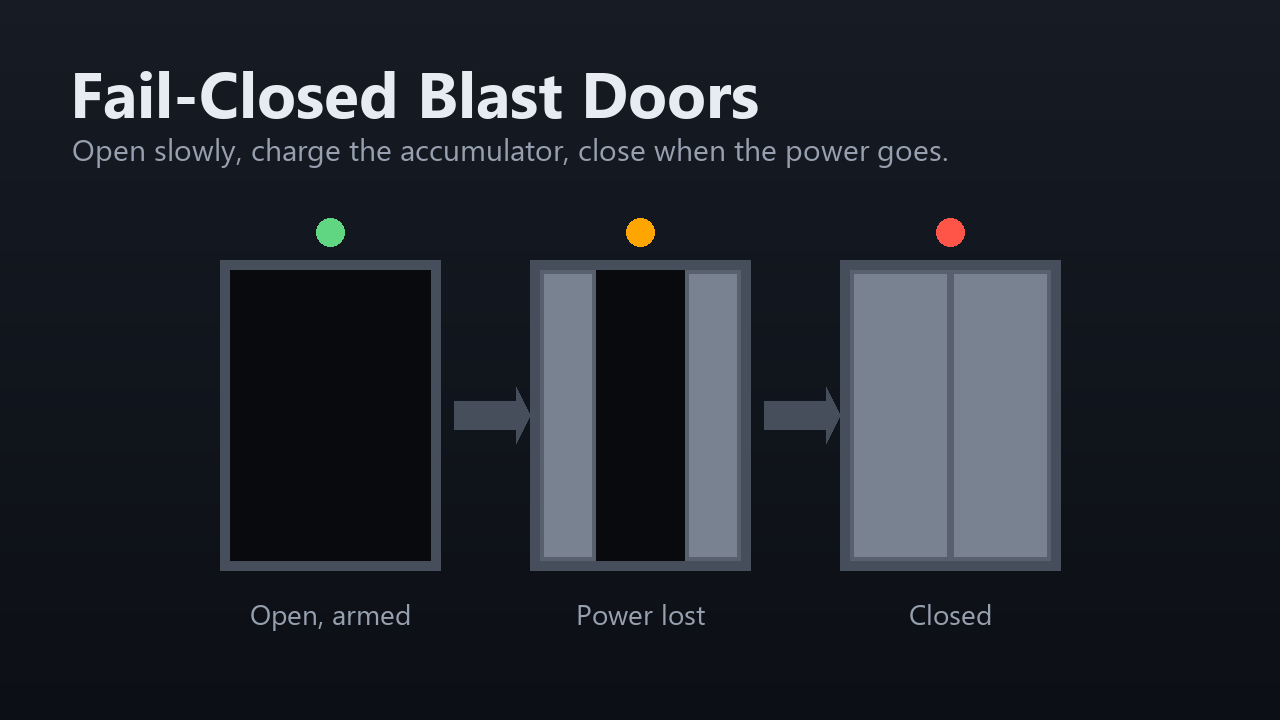
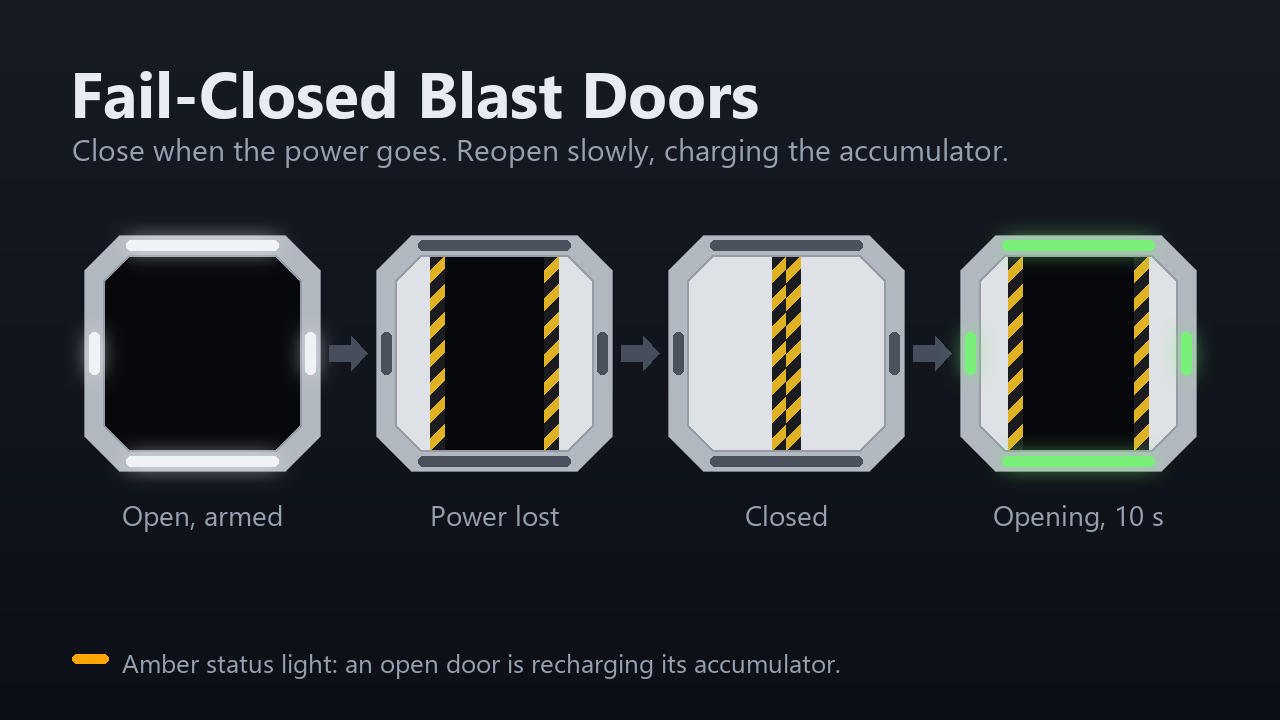
Release 1.0.0; redraw the Workshop images
Bump the version to 1.0.0 with a changelog entry. Redraw the preview and thumbnail after the
game's own blast door: an octagonal opening, hazard-striped leaf edges, and rounded status
light bars in the colours the game shows (white idle, green moving, off without power),
ordered so the close on power loss comes first and the slow opening after it.

AGENTS.md records what has been checked in game: the blast door has no error state, its
vanilla open and close take 1 second, and a dedicated-server client sees the same behaviour.

Assisted-by: Claude:claude-sonnet-5-5

diff --git a/tools/make_images.py b/tools/make_images.py
@@ -4,27 +4,39 @@ LaunchPad needs both to register the mod. Run from the repo root:
 
     python tools/make_images.py
 
-Needs Pillow. The picture is a blast door in three positions: open and armed, losing power,
-and closed.
+Needs Pillow. The picture is a blast door in four states: open and armed, losing power,
+closed, then opening again under power. The door follows the game's model: an octagonal
+opening in a light frame, two leaves with hazard-striped inner edges, and rounded status
+light bars set into the frame (long at the top and bottom, short at the sides).
 """
 
 from pathlib import Path
 
-from PIL import Image, ImageDraw, ImageFont
+from PIL import Image, ImageChops, ImageDraw, ImageFilter, ImageFont
 
 ROOT = Path(__file__).resolve().parent.parent
 FONT_DIRS = [Path("C:/Windows/Fonts"), Path("/usr/share/fonts/truetype/dejavu")]
 
 BG_TOP = (22, 27, 36)
 BG_BOTTOM = (12, 15, 21)
-FRAME = (70, 78, 92)
-DOOR = (120, 130, 145)
-DOOR_DARK = (88, 96, 110)
-AMBER = (255, 165, 0)
-RED = (255, 84, 72)
-GREEN = (96, 214, 130)
+FRAME = (178, 184, 192)
+FRAME_EDGE = (120, 126, 136)
+OPENING = (6, 8, 12)
+LEAF = (222, 225, 229)
+LEAF_EDGE = (150, 156, 166)
+HAZARD_YELLOW = (222, 178, 36)
+HAZARD_BLACK = (28, 28, 32)
+ARROW = (70, 78, 92)
 TEXT = (232, 236, 242)
 MUTED = (150, 160, 175)
+
+# The status light colours the game shows: green while the door moves, white when idle and
+# powered, off without power, and amber (this mod's default RechargeColor) while the
+# accumulator recharges.
+MOVING_GREEN = (120, 240, 120)
+IDLE_WHITE = (240, 242, 246)
+LIGHT_OFF = (74, 80, 92)
+AMBER = (255, 165, 0)
 
 
 def font(size, bold=False):
@@ -51,53 +63,115 @@ def gradient(w, h):
     return img
 
 
-def draw_door(d, x, y, w, h, open_fraction, light):
-    """A doorway with two leaves that part by open_fraction (0 closed, 1 open)."""
-    d.rectangle([x - 10, y - 10, x + w + 10, y + h + 10], fill=FRAME)
-    d.rectangle([x, y, x + w, y + h], fill=(8, 10, 14))
-    gap = round(w / 2 * open_fraction)
-    leaf = w // 2 - gap
-    if leaf > 0:
-        d.rectangle([x, y, x + leaf, y + h], fill=DOOR, outline=DOOR_DARK, width=4)
-        d.rectangle([x + w - leaf, y, x + w, y + h], fill=DOOR, outline=DOOR_DARK, width=4)
-    r = max(6, w // 14)
+def octagon(x0, y0, x1, y1, c):
+    return [(x0 + c, y0), (x1 - c, y0), (x1, y0 + c), (x1, y1 - c),
+            (x1 - c, y1), (x0 + c, y1), (x0, y1 - c), (x0, y0 + c)]
+
+
+def draw_door(img, x, y, size, open_fraction, light):
+    """A square doorway whose leaves part by open_fraction (0 closed, 1 open)."""
+    w = h = size
+    m = round(w * 0.10)  # frame thickness
+    chamfer = round(w * 0.13)
+    d = ImageDraw.Draw(img)
+    d.polygon(octagon(x - m, y - m, x + w + m, y + h + m, chamfer + m // 2),
+              fill=FRAME, outline=FRAME_EDGE)
+    opening = octagon(x, y, x + w, y + h, chamfer)
+    d.polygon(opening, fill=OPENING)
+
+    # The leaves are drawn on their own layer and clipped to the opening.
+    layer = Image.new("RGBA", img.size, (0, 0, 0, 0))
+    ld = ImageDraw.Draw(layer)
     cx = x + w // 2
-    d.ellipse([cx - r, y - 38 - r, cx + r, y - 38 + r], fill=light)
+    band = max(6, round(w * 0.07))  # the hazard-striped edge of each leaf
+    # Fully open, each leaf and its band are clear of the opening.
+    shift = round((w / 2 + band) * open_fraction)
+    left_edge, right_edge = cx - shift, cx + shift
+    ld.rectangle([x - w, y, left_edge - band, y + h], fill=LEAF)
+    ld.rectangle([right_edge + band, y, x + 2 * w, y + h], fill=LEAF)
+    for x0, x1 in ((left_edge - band, left_edge), (right_edge, right_edge + band)):
+        ld.rectangle([x0, y, x1, y + h], fill=HAZARD_YELLOW)
+        step = band * 2
+        for yy in range(y - step, y + h + step, step):
+            ld.polygon([(x0, yy), (x1, yy - band), (x1, yy - band + step // 2),
+                        (x0, yy + step // 2)], fill=HAZARD_BLACK)
+    mask = Image.new("L", img.size, 0)
+    ImageDraw.Draw(mask).polygon(opening, fill=255)
+    layer.putalpha(ImageChops.multiply(layer.getchannel("A"), mask))
+    img.paste(layer, (0, 0), layer)
+    ImageDraw.Draw(img).line(opening + [opening[0]], fill=LEAF_EDGE, width=2)
+
+    # The status lights: long bars top and bottom, short bars at the sides, set into the frame.
+    t = max(5, round(w * 0.05))
+    long_len, short_len = round(w * 0.78), round(h * 0.22)
+    cy = y + h // 2
+    bars = [
+        (cx - long_len // 2, y - m // 2 - t // 2, cx + long_len // 2, y - m // 2 + t // 2),
+        (cx - long_len // 2, y + h + m // 2 - t // 2, cx + long_len // 2, y + h + m // 2 + t // 2),
+        (x - m // 2 - t // 2, cy - short_len // 2, x - m // 2 + t // 2, cy + short_len // 2),
+        (x + w + m // 2 - t // 2, cy - short_len // 2, x + w + m // 2 + t // 2, cy + short_len // 2),
+    ]
+    if light != LIGHT_OFF:
+        # Blur the shape as a mask and paint the light colour through it, so the halo is the
+        # light's colour rather than a blend with transparent black.
+        halo = Image.new("L", img.size, 0)
+        hd = ImageDraw.Draw(halo)
+        for b in bars:
+            hd.rounded_rectangle(b, radius=t // 2, fill=200)
+        halo = halo.filter(ImageFilter.GaussianBlur(max(3, t)))
+        img.paste(Image.new("RGB", img.size, light), (0, 0), halo)
+    d = ImageDraw.Draw(img)
+    for b in bars:
+        d.rounded_rectangle(b, radius=t // 2, fill=light)
+    return m
 
 
 def render(width, height):
     img = gradient(width, height)
-    d = ImageDraw.Draw(img)
     scale = width / 1280
-    pw, ph = round(200 * scale), round(290 * scale)
-    gapx = round(110 * scale)
-    total = 3 * pw + 2 * gapx
+    size = round(196 * scale)
+    gapx = round(96 * scale)
+    total = 4 * size + 3 * gapx
     x0 = (width - total) // 2
-    y0 = round(270 * scale)
-    steps = [(1.0, GREEN, "Open, armed"), (0.45, AMBER, "Power lost"), (0.0, RED, "Closed")]
+    y0 = round(255 * scale)
+    # The point is the close on power loss; the slow, charging open comes after it.
+    steps = [(1.0, IDLE_WHITE, "Open, armed"), (0.45, LIGHT_OFF, "Power lost"),
+             (0.0, LIGHT_OFF, "Closed"), (0.5, MOVING_GREEN, "Opening, 10 s")]
     for i, (frac, colour, label) in enumerate(steps):
-        x = x0 + i * (pw + gapx)
-        draw_door(d, x, y0, pw, ph, frac, colour)
+        x = x0 + i * (size + gapx)
+        m = draw_door(img, x, y0, size, frac, colour)
+        d = ImageDraw.Draw(img)
         f = font(round(28 * scale))
         tw = d.textlength(label, font=f)
-        d.text((x + (pw - tw) / 2, y0 + ph + round(34 * scale)), label, font=f, fill=MUTED)
-        if i < 2:
-            ax = x + pw + round(24 * scale)
-            ay = y0 + ph // 2
+        d.text((x + (size - tw) / 2, y0 + size + m + round(24 * scale)), label, font=f, fill=MUTED)
+        if i < len(steps) - 1:
+            # Clear of both frames, which stand out a tenth of the door's width.
+            ax = x + size + m + round(9 * scale)
+            tip = x + size + gapx - m - round(9 * scale)
+            head = tip - round(16 * scale)
+            ay = y0 + size // 2
+            h1, h2 = round(8 * scale), round(17 * scale)
             d.polygon(
-                [(ax, ay - 14), (ax + gapx - round(48 * scale), ay - 14),
-                 (ax + gapx - round(48 * scale), ay - 28),
-                 (ax + gapx - round(34 * scale), ay),
-                 (ax + gapx - round(48 * scale), ay + 28),
-                 (ax + gapx - round(48 * scale), ay + 14), (ax, ay + 14)],
-                fill=FRAME,
+                [(ax, ay - h1), (head, ay - h1), (head, ay - h2), (tip, ay),
+                 (head, ay + h2), (head, ay + h1), (ax, ay + h1)],
+                fill=ARROW,
             )
+
+    d = ImageDraw.Draw(img)
     title = font(round(64 * scale), bold=True)
     sub = font(round(30 * scale))
     d.text((round(70 * scale), round(48 * scale)), "Fail-Closed Blast Doors", font=title, fill=TEXT)
     d.text((round(72 * scale), round(128 * scale)),
-           "Open slowly, charge the accumulator, close when the power goes.",
+           "Close when the power goes. Reopen slowly, charging the accumulator.",
            font=sub, fill=MUTED)
+    # The recharge colour is the one players will not have seen, so say what it means.
+    note = font(round(26 * scale))
+    r = round(9 * scale)
+    nx, ny = round(72 * scale), height - round(70 * scale)
+    d.rounded_rectangle([nx, ny + r // 2, nx + 4 * r, ny + r + r // 2], radius=r // 2, fill=AMBER)
+    d.text((nx + 4 * r + round(14 * scale), ny - round(6 * scale)),
+           "Amber status light: an open door is recharging its accumulator.",
+           font=note, fill=MUTED)
     return img
 
 

diff --git a/AGENTS.md b/AGENTS.md
@@ -62,11 +62,15 @@ Assisted-by: AGENT_NAME:MODEL_VERSION [TOOL1] [TOOL2]
   recharge and returns to 0 when the door starts to close; `Idle` stays 0 while it moves.
   An open door keeps its recharge state across a save and reload (through its stun), and the
   stun is not shown in any in-game label.
-- **Not verified in game yet.** What a client sees (the recharge colour and state from the
-  synced stun); the prefab's real `time`; whether the blast door has an error state
-  (`HasErrorState`), which decides whether `Error` comes from the game's setter or from our
-  logic patches; and what turns `Setting` into movement in the keypad's Logic mode, which
-  blast doors don't have.
+  A client of a dedicated server sees the same behaviour, including the recharge state from
+  the synced stun.
+- **The blast door has no error state.** `Prefab.Find("StructureBlastDoor").HasErrorState` is
+  false (checked in a debugger), so the game's `Thing.Error` setter does nothing on it and
+  `Error` is reported entirely by `ErrorCanReadPatch` and `ErrorGetValuePatch`.
+- **The vanilla open and close take 1 second** (`time` on the prefab's `DoorAnimComponent`,
+  read in a debugger), so the 10-second open is ten times slower.
+- **Not verified in game yet.** Only what turns `Setting` into movement in the keypad's
+  Logic mode, which blast doors don't have.
 - **CI.** `.github/workflows/deploy.yml` downloads the dedicated server's DLLs with
   steamcmd, builds against them, and on a `v*` tag attaches a zip of the DLL and `About/` to a
   GitHub release. The layout follows the modding Discord's pinned
